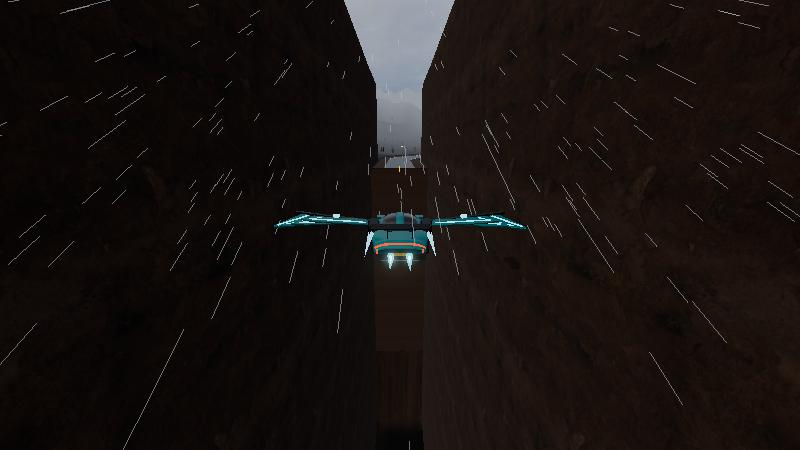
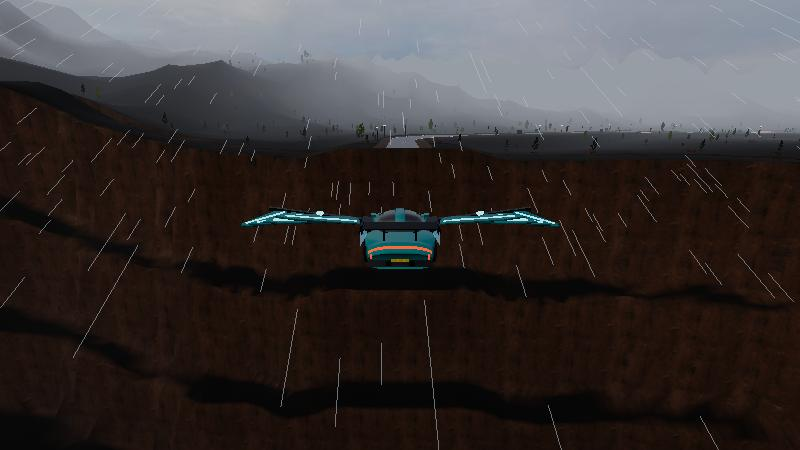
Work in progress: uncluttered race screen and a real canyon on Zeus's Fury
Camera, music, tilt centre and respawn move into the pause menu; the event name only shows during the
countdown; a smaller flight panel. The chasm is now a canyon carved across the road with sheer cliffs,
rock terraces and a river far below; flight camera close behind the car. Full suite still running.

Claude-Session: https://claude.ai/code/session_01GBobAJkSqpPVNqa2GTDbwk

diff --git a/src/terrain.js b/src/terrain.js
@@ -51,6 +51,11 @@ export class Terrain {
       const k = this.key(Math.floor(P.x[i] / this.cell), Math.floor(P.z[i] / this.cell));
       if (!this.hashMap.has(k)) this.hashMap.set(k, []); this.hashMap.get(k).push(i);
     }
+    // canyons: a gap in the road (Zeus's Fury) is a real canyon running across the track, built as its own detailed mesh
+    this.canyons = (P.gaps || []).map((g) => {
+      const mid = (g.d0 + g.d1) / 2, c = P.pointAt(mid, 0, {});
+      return { cx: c.x, cz: c.z, fx: Math.sin(c.h), fz: Math.cos(c.h), half: (g.d1 - g.d0) / 2, vmax: 1000 };
+    });
     this.res = { low: 100, medium: 140, high: 180 }[quality] || 140;
     this.spacing = (this.inner * 2) / (this.res * 0.7);
     this.geometry = this.buildGeometry();
@@ -78,6 +83,7 @@ export class Terrain {
       cg.computeBoundingSphere();
       const m = new THREE.Mesh(cg, mat); grp.add(m); // no shadows on the hills: only the road gets car shadows
     }
+    for (const C of this.canyons) { const cm = this.canyonMesh(C, mat); grp.add(cm.ground); grp.add(cm.river); }
     grp.name = "terrain"; this._mesh = grp;
     return grp;
   }
@@ -100,7 +106,26 @@ export class Terrain {
     return hills + mount;
   }
 
-  heightAt(x, z) {
+  // Canyon frame for (x, z): u along the road (across the canyon), v along the canyon; its centre line meanders away
+  // from the road and it narrows to nothing at the ends. Near the road (|v| < 60) the rims sit exactly at the gap ends.
+  canyonAt(C, x, z) {
+    const dx = x - C.cx, dz = z - C.cz, u = dx * C.fx + dz * C.fz, v = dx * C.fz - dz * C.fx, av = Math.abs(v);
+    const far = smooth(60, 380, av);
+    const uc = Math.sin(v / 260) * 45 * far;
+    const hw = C.half * (1 + 0.22 * Math.sin(v / 190 + 1.3) * far) * smooth(C.vmax, C.vmax - 260, av) + Math.sin(v * 0.07) * 3 * smooth(30, 110, av);
+    return { u, v, uc, hw, t: hw - Math.abs(u - uc) };
+  }
+  // depth below the rim at distance t inside it: a sheer drop, a ledge, another cliff, a ledge, the last drop to the floor
+  static drop(t) {
+    if (t <= 0) return 0;
+    const steps = [[0, 0], [4, 85], [24, 98], [29, 168], [50, 180], [55, 250]];
+    for (let k = 1; k < steps.length; k++) { const [t0, d0] = steps[k - 1], [t1, d1] = steps[k]; if (t <= t1) return d0 + (d1 - d0) * (t - t0) / (t1 - t0); }
+    return 250 + Math.min(8, (t - 55) * 0.08);
+  }
+
+  heightAt(x, z, carve = true) {
+    // under the canyon's own mesh (and a margin round it) the coarse terrain drops well out of sight
+    if (carve) for (const C of this.canyons) { const k = this.canyonAt(C, x, z); if (k.t > -48 && Math.abs(k.v) < C.vmax + 70) return this.heightAt(x, z, false) - 340; }
     const P = this.path, T = this.natural(x, z), flat = this.edge + this.spacing + 2;
     const cx = Math.floor(x / this.cell), cz = Math.floor(z / this.cell), R = 6;
     let best = 1e18, bi = -1, low = 1e9;
@@ -114,8 +139,6 @@ export class Terrain {
     }
     if (bi < 0) return T;
     const d = Math.sqrt(best), base = this.base[bi];
-    // the chasm: carved deep under the gap and a grid cell beyond its walls (the rock shelf on the walls hides the slope)
-    if (P.gap && P.gap[bi] && d < this.edge + this.spacing * 1.3) return base - 240;
     const t = smooth(flat, flat + 30 + Math.abs(T - base) * 1.6, d);
     return Math.min(low, base + (T - base) * t);
   }
@@ -157,6 +180,73 @@ export class Terrain {
     }
     g.setAttribute("color", new THREE.BufferAttribute(col, 3));
     return g;
+  }
+
+  // The canyon: rows along it (dense near the road), and in each row samples across it at the profile's break points so
+  // the cliff edges stay sharp. Walls get rough (jittered sideways), rock bands are baked into the vertex colours.
+  canyonMesh(C, mat) {
+    const vs = [];
+    for (let v = -C.vmax - 60; v <= C.vmax + 60;) { vs.push(v); const a = Math.abs(v); v += a < 160 ? 7 : a < 600 ? 18 : 36; }
+    const ts = [-46, -30, -16, -7, -2.5, -0.6, 0, 0.6, 1.6, 2.8, 3.7, 4.6, 8, 13, 18, 23, 23.8, 25, 26.6, 28.2, 29.4, 33, 40, 47, 49.6, 50.8, 52.5, 54.2, 55.4, 62];
+    const pos = [], uv = [], col = [], rows = [];
+    for (const v of vs) {
+      const k0 = this.canyonAt(C, C.cx + C.fz * v, C.cz - C.fx * v), uc = k0.uc, hw = k0.hw, row = [];
+      // across: left rim profile, the floor, right rim profile
+      const us = [];
+      for (const t of ts) if (t < hw) us.push(uc - hw + t);
+      for (let u = uc - hw + 70; u < uc + hw - 70; u += 14) us.push(u);
+      for (let i = ts.length - 1; i >= 0; i--) if (ts[i] < hw) us.push(uc + hw - ts[i]);
+      us.sort((a, b) => a - b);
+      for (const u of us) {
+        const x0 = C.cx + C.fx * u + C.fz * v, z0 = C.cz + C.fz * u - C.fx * v;
+        const k = this.canyonAt(C, x0, z0), g = this.heightAt(x0, z0, false);
+        const d = Terrain.drop(k.t), wall = k.t > 0 && k.t < 60;
+        // rough rock: walls pushed in and out a little, depth wobbles; nothing moves at the road's two lips
+        const near = smooth(25, 70, Math.abs(v)), j = wall ? fbm(v / 9, d / 11, this.seed + 7, 3, false) * 3.2 * near : 0;
+        const y = k.t > 0 ? g - d + (d > 4 ? fbm(v / 30, u / 30, this.seed + 9, 2, false) * 5 * near : 0) : g + 0.12;
+        const ux = u + j * Math.sign(u - k.uc);
+        const x = C.cx + C.fx * ux + C.fz * v, z = C.cz + C.fz * ux - C.fx * v;
+        pos.push(x, y, z); uv.push(v / 7, (y + u * 0.35) / 7);
+        // strata: warm sandstone bands down the walls, darker in the depths
+        const band = 0.86 + 0.14 * Math.sin(y * 0.33 + fbm(v / 60, y / 20, this.seed + 3, 2, false) * 2.5), deep = 1 - smooth(0, 250, d) * 0.35;
+        const l = (k.t > 0 ? band * deep : 0.95 + fbm(x / 90, z / 90, this.seed + 31, 3, false) * 0.2);
+        col.push(l * (k.t > 0 ? 1.55 : 1), l * (k.t > 0 ? 1.3 : 1), l * (k.t > 0 ? 1.08 : 1));
+        row.push(pos.length / 3 - 1);
+      }
+      rows.push(row);
+    }
+    // stitch neighbouring rows (they can have different counts): walk both rows by position across the canyon
+    const idx = [], P = pos;
+    const across = (i) => { const x = P[i * 3] - C.cx, z = P[i * 3 + 2] - C.cz; return x * C.fx + z * C.fz; };
+    for (let r = 0; r < rows.length - 1; r++) {
+      const A = rows[r], B = rows[r + 1]; let a = 0, b = 0;
+      while (a < A.length - 1 || b < B.length - 1) {
+        const advA = b >= B.length - 1 || (a < A.length - 1 && across(A[a + 1]) <= across(B[b + 1]));
+        if (advA) { idx.push(A[a], B[b], A[a + 1]); a++; } else { idx.push(A[a], B[b], B[b + 1]); b++; }
+      }
+    }
+    const g = new THREE.BufferGeometry();
+    g.setAttribute("position", new THREE.Float32BufferAttribute(pos, 3)); g.setAttribute("uv", new THREE.Float32BufferAttribute(uv, 2));
+    g.setAttribute("color", new THREE.Float32BufferAttribute(col, 3)); g.setIndex(idx); g.computeVertexNormals();
+    // fix winding where rows were stitched the other way round: make every normal point up-ish/out of the rock
+    const nor = g.attributes.normal.array, mix = new Float32Array((pos.length / 3) * 2);
+    for (let i = 0; i < pos.length / 3; i++) { const ny = nor[i * 3 + 1]; mix[i * 2] = smooth(0.8, 0.45, Math.abs(ny)); mix[i * 2 + 1] = 0; }
+    g.setAttribute("tmix", new THREE.BufferAttribute(mix, 2));
+    const m = new THREE.Mesh(g, mat.clone()); m.material.side = THREE.DoubleSide; m.material.customProgramCacheKey = () => "terrainDS"; m.material.onBeforeCompile = mat.onBeforeCompile;
+    m.name = "canyon";
+    // the river at the bottom, following the canyon's centre line
+    const rp = [], ri = [];
+    vs.forEach((v, i) => {
+      const k = this.canyonAt(C, C.cx + C.fz * v, C.cz - C.fx * v);
+      const w = Math.max(4, Math.min(16, k.hw - 56)), x0 = C.cx + C.fx * k.uc + C.fz * v, z0 = C.cz + C.fz * k.uc - C.fx * v;
+      const y = this.heightAt(x0, z0, false) - Terrain.drop(k.hw) + 2.2;
+      rp.push(x0 - C.fx * w, y, z0 - C.fz * w, x0 + C.fx * w, y, z0 + C.fz * w);
+      if (i < vs.length - 1) { const a = i * 2; ri.push(a, a + 2, a + 1, a + 1, a + 2, a + 3); }
+    });
+    const rg = new THREE.BufferGeometry(); rg.setAttribute("position", new THREE.Float32BufferAttribute(rp, 3)); rg.setIndex(ri); rg.computeVertexNormals();
+    const river = new THREE.Mesh(rg, new THREE.MeshStandardMaterial({ color: 0x5f7f8f, roughness: 0.15, metalness: 0.3, side: THREE.DoubleSide }));
+    river.name = "river";
+    return { ground: m, river };
   }
 
   material(theme) {

diff --git a/sw.js b/sw.js
@@ -1,5 +1,5 @@
 // Generated by scripts/sw.mjs. Cache-first service worker so Apex Ring works offline once installed.
-const CACHE = "apex-ring-8ea7b3c98b";
+const CACHE = "apex-ring-42f2c9d1bf";
 const FILES = ["./","./assets/fonts/OFL.txt","./assets/fonts/barlow-400.woff2","./assets/fonts/barlow-600.woff2","./assets/fonts/barlow-700.woff2","./assets/fonts/barlowc-600.woff2","./assets/fonts/barlowc-700.woff2","./assets/fonts/barlowc-700i.woff2","./assets/fonts/barlowc-800i.woff2","./assets/previews/alpine.jpg","./assets/previews/canyon.jpg","./assets/previews/coastal.jpg","./assets/previews/forest.jpg","./assets/previews/frost.jpg","./assets/previews/gp.jpg","./assets/previews/harbour.jpg","./assets/previews/neon.jpg","./assets/previews/oval.jpg","./assets/previews/xtreme.jpg","./assets/previews/zeus.jpg","./assets/sfx/wings.mp3","./assets/sfx/wings_off.mp3","./assets/sky/industrial_sunset_02.jpg","./assets/sky/kloofendal_38d_partly_cloudy.jpg","./assets/sky/kloofendal_48d_partly_cloudy.jpg","./assets/sky/kloofendal_misty_morning.jpg","./assets/sky/kloofendal_overcast.jpg","./assets/sky/qwantani_late_afternoon.jpg","./assets/sky/qwantani_sunset.jpg","./assets/sky/snow_field.jpg","./assets/tex/asphalt.jpg","./assets/tex/asphalt_n.jpg","./assets/tex/concrete.jpg","./assets/tex/darkrock.jpg","./assets/tex/darkrock_n.jpg","./assets/tex/drygrass.jpg","./assets/tex/grass.jpg","./assets/tex/grass_n.jpg","./assets/tex/gravel.jpg","./assets/tex/rock.jpg","./assets/tex/rock_n.jpg","./assets/tex/sand.jpg","./assets/tex/snow.jpg","./assets/trees/atlas.webp","./icons/icon-192.png","./icons/icon-512.png","./icons/icon.svg","./index.html","./manifest.webmanifest","./src/ai.js","./src/assist.js","./src/audio.js","./src/camera.js","./src/career.js","./src/carmodel.js","./src/cars.js","./src/economy.js","./src/effects.js","./src/env.js","./src/ghost.js","./src/ghostcode.js","./src/input.js","./src/main.js","./src/medals.js","./src/minimap.js","./src/music.js","./src/photo.js","./src/race.js","./src/rng.js","./src/save.js","./src/scene.js","./src/scenery.js","./src/showroom.js","./src/skies.js","./src/terrain.js","./src/textures.js","./src/tilt.js","./src/track.js","./src/trackmesh.js","./src/tracks.js","./src/treeatlas.js","./src/trophies.js","./src/vehicle.js","./src/version.js","./src/wings.js","./styles.css","./ui.css","./vendor/three/addons/environments/RoomEnvironment.js","./vendor/three/addons/postprocessing/EffectComposer.js","./vendor/three/addons/postprocessing/MaskPass.js","./vendor/three/addons/postprocessing/OutputPass.js","./vendor/three/addons/postprocessing/Pass.js","./vendor/three/addons/postprocessing/RenderPass.js","./vendor/three/addons/postprocessing/ShaderPass.js","./vendor/three/addons/postprocessing/UnrealBloomPass.js","./vendor/three/addons/shaders/CopyShader.js","./vendor/three/addons/shaders/LuminosityHighPassShader.js","./vendor/three/addons/shaders/OutputShader.js","./vendor/three/addons/utils/BufferGeometryUtils.js","./vendor/three/three.core.js","./vendor/three/three.module.js"];
 
 // A new version installs in the background and waits; the page offers "Update ready" or applies it on next launch.

diff --git a/src/main.js b/src/main.js
@@ -934,7 +934,7 @@ document.querySelectorAll("#ctrlTabs .tab").forEach((b) => b.addEventListener("c
 // tilt needs a tap before some browsers allow the sensor, so re-enable it on the first tap after loading
 if (save.settings.controls === "tilt") addEventListener("pointerdown", function once() { removeEventListener("pointerdown", once); useControls("tilt"); });
 
-$("respawnBtn").addEventListener("click", () => { if (G.mode === "race") G.player.respawn(); });
+$("respawnBtn").addEventListener("click", () => { if (G.mode === "race") { G.player.respawn(); pause(false); } });
 bindZones($("zoneL"), $("zoneR"));
 bindPads($("proPads"));
 // Pro driving: manual throttle, brake and handbrake; touch gets on-screen pedals instead of the half-screen zones
@@ -1058,6 +1058,7 @@ function step(dt) {
     else if (ctl.boost && c > 2.6 && c <= 3.55) G.launch = "early";
     if (c >= 4) {
       G.mode = "race";
+      if (!(G.event && G.event.type === "attack")) $("eventTag").hidden = true; // the event brief shows on the grid only
       const v = G.player;
       if (G.launch === "perfect") { v.vx += Math.sin(v.h) * 22; v.vz += Math.cos(v.h) * 22; toast("Perfect start!", 1500); sfx.whoosh(); }
       else if (G.launch === "early") { G.bog = 0.8; toast("Too early: wheelspin!", 1500); }
@@ -1322,7 +1323,7 @@ function render(dt) {
     chase.update(v, dt, v.boosting ? 1 : 0);
     // flight camera: up and back with the wings out, so you see them and the chasm
     const k = G.mode === "race" || G.mode === "done" ? smoothK(v.wing || 0) : 0;
-    if (k > 0.01) { camera.position.y += 3 * k; camera.position.x -= Math.sin(v.h) * 4.5 * k; camera.position.z -= Math.cos(v.h) * 4.5 * k; camera.lookAt(v.x + Math.sin(v.h) * 14 * k, v.y + 1.2, v.z + Math.cos(v.h) * 14 * k); } // look ahead down the chasm
+    if (k > 0.01) { camera.position.y += 0.9 * k; camera.position.x -= Math.sin(v.h) * 1.6 * k; camera.position.z -= Math.cos(v.h) * 1.6 * k; camera.lookAt(v.x + Math.sin(v.h) * 6 * k, v.y + 0.9, v.z + Math.cos(v.h) * 6 * k); } // close behind, wings filling the frame
   }
   if (G.splitRace && G.p2 && G.mode !== "menu") {
     chase2.update(G.p2.veh, dt, G.p2.veh.boosting ? 1 : 0);
@@ -1344,7 +1345,7 @@ function render(dt) {
       $("posV").textContent = ordinal(i + 1) + "/" + o.length;
       // gap to the car ahead (or behind when leading), in seconds at current speed
       const other = i > 0 ? o[i - 1] : o[1];
-      if (other && G.mode === "race") {
+      if (other && G.mode === "race" && $("flightHud").hidden) {
         const gap = Math.abs(other.veh.totalD - v.totalD) / Math.max(15, v.vF);
         $("gapV").hidden = false; $("gapV").className = i > 0 ? "behind" : "ahead";
         $("gapV").textContent = (i > 0 ? "+" : "−") + gap.toFixed(1) + "s " + (i > 0 ? "to " : "over ") + other.name.split(" ")[0];

diff --git a/src/trackmesh.js b/src/trackmesh.js
@@ -175,29 +175,15 @@ export function buildTrackMeshes(path, theme, { embankments = true } = {}) {
       const i0 = Math.floor((g.d0 - 150) / path.ds), i1 = Math.ceil((g.d1 + 70) / path.ds);
       const inR = (i) => { const k = ((i - i0) % N + N) % N; return k < (i1 - i0); };
       const face = (lat) => (i, side) => { path.pointAt(i * path.ds, lat, tmp); const over = path.gap[i]; return { lat, y: side ? tmp.y + top : tmp.y - (over || 1) * deep * (over ? 1 : 0.02) }; };
-      for (const sg of [-1, 1]) {
-        geos.push(strip(path, 0, 0, { mask: inR, edgeFn: face(sg * wlat), vScale: 30, gaps: true }));
-      }
       // the faces under the two lips
       for (const [d, y] of [[g.d0, 0], [g.d1, 0]]) {
-        const pts = [-wlat, wlat].map((lat) => path.pointAt(d, lat, {}));
+        const pts = [-wlat - 6, wlat + 6].map((lat) => path.pointAt(d, lat, {}));
         const pos = [pts[0].x, pts[0].y - deep, pts[0].z, pts[1].x, pts[1].y - deep, pts[1].z, pts[0].x, pts[0].y - 0.05, pts[0].z, pts[1].x, pts[1].y - 0.05, pts[1].z];
         const q = new THREE.BufferGeometry(); q.setAttribute("position", new THREE.Float32BufferAttribute(pos, 3));
         q.setAttribute("uv", new THREE.Float32BufferAttribute([0, 0, 4, 0, 0, 8, 4, 8], 2)); q.setIndex([0, 1, 2, 1, 3, 2]); q.computeVertexNormals(); geos.push(q);
       }
     }
     const canyon = new THREE.Mesh(merge(geos), rock); canyon.name = "chasm"; canyon.receiveShadow = true; group.add(canyon);
-    // the abyss: a black void 70 m down (fog makes it fade to the storm colour), so the floor never shows
-    const voidGeo = merge(path.gaps.map((g) => { const i0 = Math.floor((g.d0 - 5) / path.ds), n = Math.ceil((g.d1 - g.d0 + 10) / path.ds);
-      return strip(path, 0, 0, { mask: (i) => ((i - i0) % N + N) % N < n, gaps: true, edgeFn: (i, side) => { const lat = side ? wlat : -wlat; path.pointAt(i * path.ds, lat, tmp); return { lat, y: tmp.y - 70 }; } }); }));
-    group.add(new THREE.Mesh(voidGeo, new THREE.MeshBasicMaterial({ color: 0x050608, side: THREE.DoubleSide })));
-    // a glowing edge line at both lips so you can see where the road ends, and warning chevrons on the walls
-    const lipMat = new THREE.MeshBasicMaterial({ color: 0xffb020 });
-    for (const g of path.gaps) for (const d of [g.d0, g.d1]) {
-      const a = path.pointAt(d, -W - R, {}), b = path.pointAt(d, W + R, {});
-      const m = new THREE.Mesh(new THREE.BoxGeometry(Math.hypot(b.x - a.x, b.z - a.z), 0.12, 0.5), lipMat);
-      m.position.set((a.x + b.x) / 2, (a.y + b.y) / 2 + 0.06, (a.z + b.z) / 2); m.rotation.y = a.h + Math.PI / 2; m.userData.glow = true; group.add(m);
-    }
   }
 
   // boost pads: glowing chevrons set into the road

diff --git a/index.html b/index.html
@@ -33,10 +33,6 @@
 </div>
 <div class="topbtns" id="topbtns" hidden>
   <button class="pill" id="pauseBtn" type="button" aria-label="Pause">❚❚</button>
-  <button class="pill" id="muteBtn" type="button" aria-label="Sound">♪ On</button>
-  <button class="pill" id="tiltBtn" type="button" aria-label="Calibrate tilt: set straight ahead" hidden>Centre</button>
-  <button class="pill" id="camBtn" type="button" aria-label="Camera">Cam 1</button>
-  <button class="pill" id="respawnBtn" type="button" aria-label="Back on track">↺</button>
 </div>
 
 <canvas id="minimap" hidden aria-hidden="true"></canvas>
@@ -58,7 +54,7 @@
 <div id="offtrack" hidden>OFF TRACK</div>
 <div id="flash" aria-hidden="true"></div>
 <div id="subtitle" hidden></div>
-<div id="flightHud" hidden><div class="fh-k">Flight systems</div><div class="fh-row"><b id="fltState">WINGS OUT</b><span id="fltAlt">+0 m</span></div><div class="fh-bar"><i id="fltBar"></i></div><div class="fh-tip">Steer to fly · Boost to climb</div></div>
+<div id="flightHud" hidden><div class="fh-row"><b id="fltState">WINGS OUT</b><span id="fltAlt">+0 m</span></div><div class="fh-bar"><i id="fltBar"></i></div></div>
 
 <div class="pads" id="pads" hidden>
   <div class="zone" id="zoneL" aria-label="Steer left"></div><div class="zone" id="zoneR" aria-label="Steer right"></div>
@@ -382,7 +378,12 @@
 <div class="overlay center" id="pause" hidden>
   <div class="card">
     <div class="brand small">PAUSED</div>
-    <div class="hint">Steer: hold the left or right half of the screen, or ← → / A D. Drifting and braking happen by themselves; steer hard into fast corners to drift and fill the boost bar. Boost: tap both halves together twice, or Space (do it just before GO for a perfect start). Camera: C. Back on track: ↺ or R.</div>
+    <div class="pauseopts">
+      <button class="chipbtn" id="camBtn" type="button" aria-label="Camera">Cam 1</button>
+      <button class="chipbtn" id="muteBtn" type="button" aria-label="Sound">♪ On</button>
+      <button class="chipbtn" id="tiltBtn" type="button" aria-label="Calibrate tilt: set straight ahead" hidden>Centre tilt</button>
+      <button class="chipbtn" id="respawnBtn" type="button" aria-label="Back on track">Back on track</button>
+    </div>
     <button class="btn" id="resumeBtn" type="button">Resume</button>
     <button class="btn ghost" id="photoBtn" type="button">Photo mode</button>
     <button class="btn ghost" id="restartBtn" type="button">Restart</button>

diff --git a/ui.css b/ui.css
@@ -315,3 +315,21 @@ body:has(.screen.full:not([hidden])) .topbar .brand { visibility: hidden; }
 .nd > * { transform: rotate(-45deg); }
 .event.node .nd { font-size: 0; position: relative; }
 .event.node .nd::after { content: attr(data-t); position: absolute; inset: 0; display: grid; place-items: center; transform: rotate(-45deg); font: 800 9px var(--display); letter-spacing: .06em; }
+
+/* ---------- race HUD: lean. Position / time / lap, minimap, speed, pause; everything else lives in the pause menu ---------- */
+.hud .chip { background: linear-gradient(180deg, rgba(5, 7, 11, .55), rgba(5, 7, 11, .3)); border: 0; box-shadow: none; border-radius: 2px; padding: 4px 10px; }
+.hud .chip .k { font: 700 9px var(--display); letter-spacing: .22em; color: rgba(243, 245, 249, .55); }
+.hud .chip .v { font: italic 800 22px/1 var(--display); }
+.topbtns .pill { background: rgba(5, 7, 11, .45); border: 0; box-shadow: inset 0 0 0 1px rgba(255, 255, 255, .14); border-radius: 50%; width: 38px; height: 38px; min-height: 0; padding: 0; font-size: 12px; }
+.topbtns { top: calc(var(--safe-t) + 64px); }
+#minimap { background: rgba(5, 7, 11, .35); border: 0; border-radius: 50%; }
+#gapV { font: 700 12px var(--display); padding: 2px 8px; background: rgba(5, 7, 11, .4); border: 0; }
+#eventTag { font: 700 13px var(--display); letter-spacing: .06em; top: 34%; padding: 10px 18px; background: rgba(5, 7, 11, .7); border: 0; box-shadow: inset 0 0 0 1px var(--line2); border-radius: var(--r); max-width: min(80vw, 520px); }
+#flightHud { width: auto; min-width: 150px; top: calc(var(--safe-t) + 74px); padding: 4px 10px 6px; }
+#flightHud .fh-row b { font-size: 12px; letter-spacing: .18em; } #flightHud .fh-row span { font-size: 14px; margin-left: 14px; }
+#flightHud .fh-bar { height: 2px; margin-top: 4px; }
+#subtitle { top: calc(var(--safe-t) + 120px); font-size: 14px; }
+@media (max-width: 500px) { #flightHud { top: calc(var(--safe-t) + 110px); } #subtitle { top: calc(var(--safe-t) + 150px); font-size: 12px; } #eventTag { top: 30%; } }
+.pauseopts { display: grid; grid-template-columns: 1fr 1fr; gap: 6px; }
+.pauseopts .chipbtn { padding: 10px 8px; }
+.pauseopts .chipbtn[hidden] { display: none; }

diff --git a/tests/game.spec.js b/tests/game.spec.js
@@ -338,12 +338,14 @@ test.describe("Apex Ring", () => {
     await page.setViewportSize({ width: 915, height: 412 });
     const problems = await openGame(page, "rivals=3");
     await startRace(page);
+    // the camera button lives in the pause menu now; C cycles it during the race
     await expect(page.locator("#camBtn")).toHaveText("Cam 1");
-    await page.click("#camBtn"); await expect(page.locator("#camBtn")).toHaveText("Cam 2");
+    await page.keyboard.press("c"); await expect(page.locator("#camBtn")).toHaveText("Cam 2");
     await page.waitForTimeout(800);
     await page.screenshot({ path: "screenshots/lowcam-landscape.png" });
-    await page.click("#camBtn"); await expect(page.locator("#camBtn")).toHaveText("Cam 3");
+    await page.click("#pauseBtn"); await page.click("#camBtn"); await expect(page.locator("#camBtn")).toHaveText("Cam 3");
     await page.click("#camBtn"); await expect(page.locator("#camBtn")).toHaveText("Cam 1");
+    await page.click("#resumeBtn");
     expect((await game(page, () => window.__apex.save)).settings.camera).toBe("chase");
     expect(problems).toEqual([]);
   });

diff --git a/CLAUDE.md b/CLAUDE.md
@@ -352,3 +352,22 @@ yet (Supabase), build the screens and show an "under construction" message. Plan
   ribbon bolt, world flash, thunder delayed by distance). Dev: dev/wings.html + scripts/dev/wingshot.mjs, zeusshot.mjs.
 - Online screen (Global top-100 per track with your own lap and placeholder rows, Friends with a friend code and add
   friend, Profile with driver name and stats). Anything that needs the server opens an "Under construction" card.
+
+## Run 3 (2026-10-21 06:50 → 12:50 UTC), from the user's phone playtest
+Hourly routine "Apex Ring 6-hour run check-in" (:07 past) wakes the session. Plan (tick as done):
+- [x] E1 Uncluttered race screen: music / camera / centre / respawn move into the pause menu; no event text in a race
+      (shown once on the countdown only); smaller flight panel; only position, time, lap, minimap, speed and pause stay.
+- [x] E2 Real chasm on Zeus's Fury: a canyon that crosses the road (sheer cliff faces where the road ends and resumes,
+      stepped rock terraces, a river far below) instead of walls along the road; flight camera close behind the car.
+- [ ] E3 Land the WIP (sparks, verge grass atlas bake, results styling) through the full suite.
+- [ ] E4 Bug hunt (subagent review) and polish.
+
+### Run 3 progress log
+- Race screen decluttered: only position, time, lap, round minimap, speedo and a round pause button stay on screen.
+  Camera, music, tilt centre and "Back on track" live in the pause menu. The event name shows as a banner during the
+  countdown only (Drift Attack keeps its score line). The flight panel is one small bar (state, altitude); the gap chip
+  hides while flying.
+- Zeus's Fury chasm rebuilt: Terrain.canyonAt / canyonMesh carve a real canyon across the road (meanders away from
+  the road, stepped rock terraces with strata colours, sheer faces under both road ends, a river ~250 m down). The old
+  walls along the road, the black void plane and the floating amber lip bar are gone. Flight camera sits close behind
+  and a little above the car so you see the wings and the drop.
